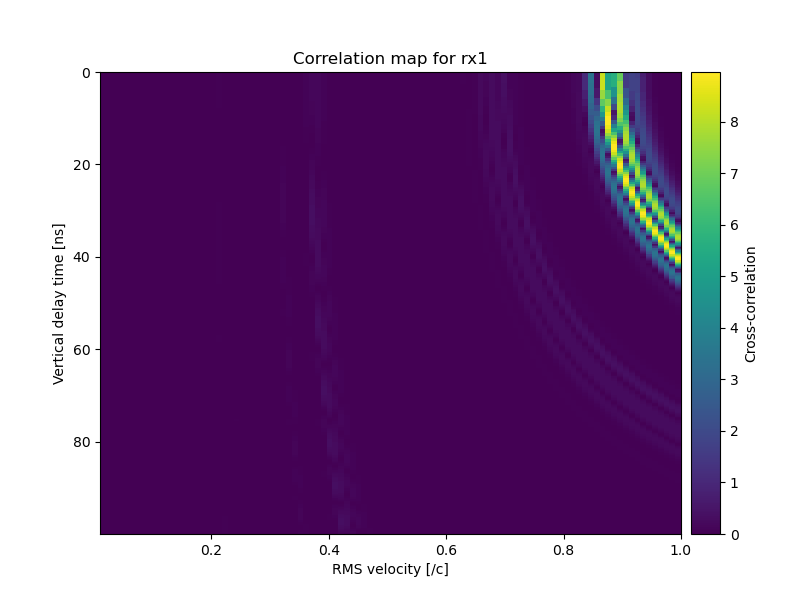
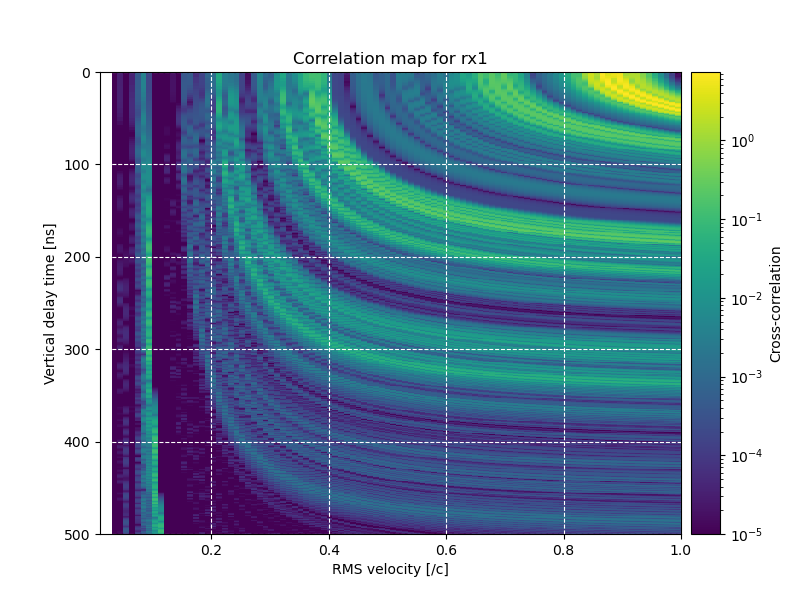
estimate_Vrms.pyが動くようになった

diff --git a/tools/estimate_Vrms.py b/tools/estimate_Vrms.py
@@ -34,7 +34,6 @@ for i in range(1, nrx+1):
     data, dt = get_output_data(data_path, i, 'Ez')
     data_list.append(data)
 
-
 #* set physical constants
 c = 299792458 # [m/s], speed of light in vacuum
 epsilon_0 = 1 # vacuum permittivity
@@ -42,27 +41,25 @@ epsilon_0 = 1 # vacuum permittivity
 
 
 #* set calculation parameters
-RMS_velocity = np.arange(0.01, 1.01, 0.01) # percentage to speed of light, 0% to 100%
-vertical_delay_time = np.arange(0, 100, 0.1) # 2-way travelt time in vertical direction, [ns]
+RMS_velocity = np.arange(0.01, 1.01, 0.005) # percentage to speed of light, 0% to 100%
+vertical_delay_time = np.arange(0, 1501, 1) # 2-way travelt time in vertical direction, [ns]
 
 
 #! jsonに書いたほうがいいかも
 antenna_step = 2.4 # antenna distance step, [m]
 rx_start = 3
 src_start = 3
-#!!!!!!!!!!!
+#!!!!!!!!!!!!!!!!!!
 
-corr_map = np.zeros((len(vertical_delay_time), len(RMS_velocity)))
 
-def corr(Vrms_ind, tau_ver_ind):
-    rx = 0 # rx1のこと
+def corr(Vrms_ind, tau_ver_ind, rx):
     rx_posi = rx_start + rx * antenna_step # [m]
 
     Vrms = RMS_velocity[Vrms_ind] * c # [m/s]
     tau_ver = vertical_delay_time[tau_ver_ind] * 1e-9 # [s]
 
-    for src in range(10):
-        Amp_times = [] # 取り出した強度を入れる配列を用意しておく
+    Amp_list= [] # 取り出した強度を入れる配列を用意しておく
+    for src in range(nrx-1):
 
         src_posi = src_start + src * antenna_step # [m]
         offset = np.abs(rx_posi - src_posi) # [m]
@@ -70,38 +67,55 @@ def corr(Vrms_ind, tau_ver_ind):
         total_delay = np.sqrt((offset / Vrms)**2 + tau_ver**2) # index number
         total_delay = int(total_delay / dt)
         if total_delay > len(data_list[rx]):
-            Amp_times.append(0)
+            Amp_list.append(0)
         else:
-            Amp = (np.abs(data_list[rx][total_delay, src]) + np.abs(data_list[rx][total_delay+1, src]) \
-                + np.abs(data_list[rx][total_delay-1, src]))/3
-            Amp_times.append(np.abs(data_list[rx][total_delay, src]))
-    corr_map[tau_ver_ind, Vrms_ind] = np.sum(Amp_times)
+            #Amp = sum(np.abs(data_list[rx][total_delay-3: total_delay+3, src])) / 7
+            Amp = np.abs(data_list[rx][total_delay, src])
+            Amp_list.append(Amp)
+
+    # Amp_timesから2つ選んで積をとり，その和を求める
+    correlation =  sum(Amp1 * Amp2 for Amp1, Amp2 in itertools.combinations(Amp_list, 2))
+    return correlation
 
 
-    return corr_map
+#* make output directory
+output_dir_path = data_dir_path + '/corr'
+if not os.path.exists(output_dir_path):
+    os.makedirs(output_dir_path)
 
-for p in tqdm(range(len(RMS_velocity))):
-    for t in range(len(vertical_delay_time)):
-        corr_resutl = corr(p, t)
+
+#* caluculate and plot
+corr_map = np.zeros((len(vertical_delay_time), len(RMS_velocity)))
+for RX in range(nrx-1):
+    for v in tqdm(range(len(RMS_velocity)), desc='RX' + str(RX+1)):
+        for t in range(len(vertical_delay_time)):
+            corr_map[t, v] = corr(v, t, RX)
+    print(np.amax(corr_map))
 
 
-#* plot
-fig = plt.figure(figsize=(8, 6))
-ax = fig.add_subplot(111)
+    #* plot
+    fig = plt.figure(figsize=(8, 6))
+    ax = fig.add_subplot(111)
 
-plt.imshow(corr_map, cmap='viridis', aspect='auto', interpolation='nearest',
-           extent=[RMS_velocity[0], RMS_velocity[-1], vertical_delay_time[-1], vertical_delay_time[0]])
+    plt.imshow(corr_map, cmap='viridis', aspect='auto', interpolation='nearest',
+            extent=[RMS_velocity[0], RMS_velocity[-1], vertical_delay_time[-1], vertical_delay_time[0]],
+            norm=colors.LogNorm(vmin=np.min(corr_map), vmax=np.amax(corr_map)))
 
-ax.set_xlabel('RMS velocity [/c]')
-ax.set_ylabel('Vertical delay time [ns]')
-ax.set_title('Correlation map for rx1')
+    ax.set_xlabel('RMS velocity [/c]')
+    ax.set_ylabel('Vertical delay time [ns]')
+    ax.set_title('Correlation map for rx' + str(RX + 1))
+    ax.grid(color='gray', linestyle='--')
 
-delvider = axgrid1.make_axes_locatable(ax)
-cax = delvider.append_axes('right', size='5%', pad=0.1)
-plt.colorbar(cax=cax, label='Cross-correlation')
+    delvider = axgrid1.make_axes_locatable(ax)
+    cax = delvider.append_axes('right', size='5%', pad=0.1)
+    plt.colorbar(cax=cax, label='Cross-correlation')
 
-plt.savefig(data_dir_path + '/corr_map.png')
-plt.show()
+    plt.savefig(output_dir_path + '/corr_map_rx' + str(RX + 1) + '.png')
+
+
+
+
+
 
 
 #! ↓なにこれ
